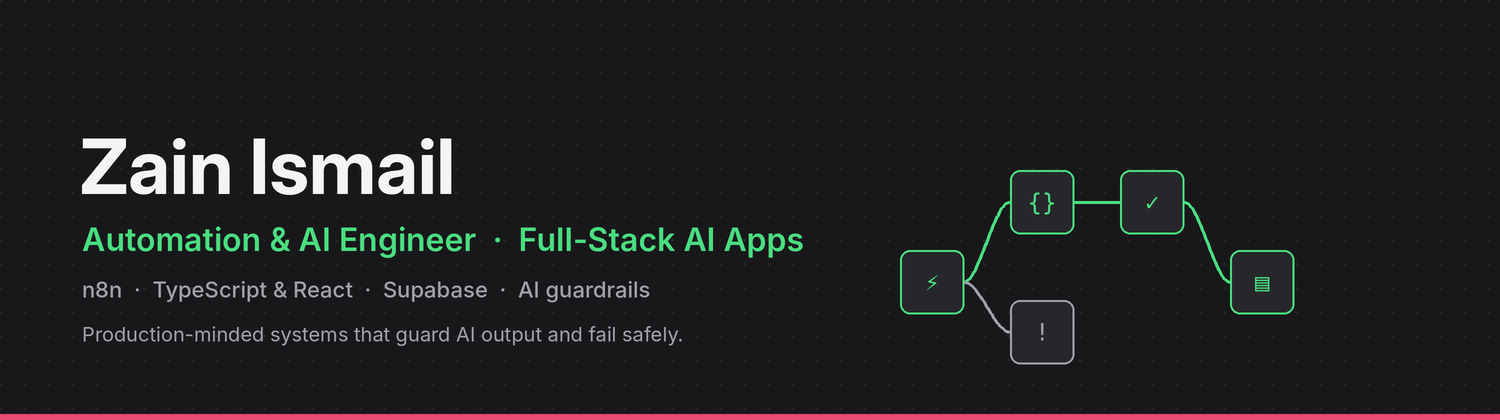
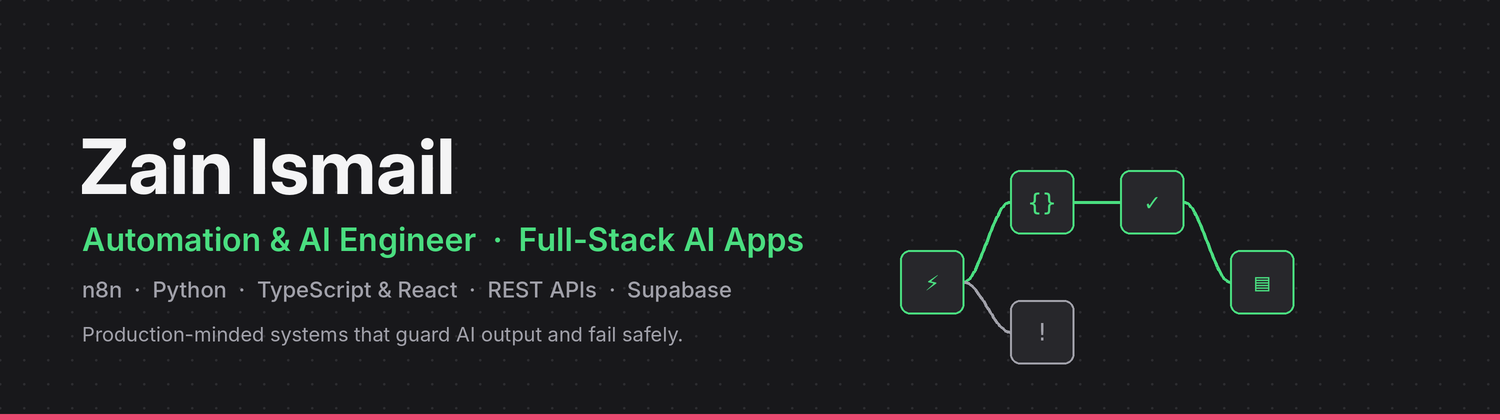
Update location to Bahawalpur; add Python and API skills
Claude-Session: https://claude.ai/code/session_019bePdeGMJb2WFyAZFRj3xd

Changed region(s): [[0.092, 0.65, 0.4907, 0.7119]]

diff --git a/README.md b/README.md
@@ -6,7 +6,7 @@
   <a href="mailto:zm48713@gmail.com"><img src="https://img.shields.io/badge/Email-zm48713%40gmail.com-EA4335?style=flat&logo=gmail&logoColor=white" alt="Email"></a>
   <!-- <a href="https://linkedin.com/in/YOUR-HANDLE"><img src="https://img.shields.io/badge/LinkedIn-Connect-0A66C2?style=flat&logo=linkedin&logoColor=white" alt="LinkedIn"></a> -->
   <img src="https://img.shields.io/badge/Open%20to-roles%20%26%20contracts-4ADE80?style=flat" alt="Open to roles and contracts">
-  <img src="https://img.shields.io/badge/Lahore%2C%20PK-Remote%20friendly-71717A?style=flat" alt="Lahore, Pakistan, remote friendly">
+  <img src="https://img.shields.io/badge/Bahawalpur%2C%20Pakistan-Remote%20friendly-71717A?style=flat" alt="Bahawalpur, Pakistan, remote friendly">
 </p>
 
 ## About me
@@ -78,7 +78,9 @@ Focused, importable workflows that each demonstrate one production pattern, star
 
 **Automation:** &nbsp;
 ![n8n](https://img.shields.io/badge/n8n-EA4B71?style=flat-square&logo=n8n&logoColor=white)
-![Webhooks](https://img.shields.io/badge/Webhooks%20%26%20REST-0EA5E9?style=flat-square&logo=fastapi&logoColor=white)
+![REST API](https://img.shields.io/badge/REST%20API-0EA5E9?style=flat-square&logo=openapiinitiative&logoColor=white)
+![API Integration](https://img.shields.io/badge/API%20Integration-6366F1?style=flat-square&logo=postman&logoColor=white)
+![Webhooks](https://img.shields.io/badge/Webhooks-0F766E?style=flat-square&logo=webauthn&logoColor=white)
 ![Google Sheets](https://img.shields.io/badge/Google%20Sheets-34A853?style=flat-square&logo=googlesheets&logoColor=white)
 
 **Frontend:** &nbsp;
@@ -89,6 +91,7 @@ Focused, importable workflows that each demonstrate one production pattern, star
 ![Tailwind CSS](https://img.shields.io/badge/Tailwind-06B6D4?style=flat-square&logo=tailwindcss&logoColor=white)
 
 **Backend & data:** &nbsp;
+![Python](https://img.shields.io/badge/Python-3776AB?style=flat-square&logo=python&logoColor=white)
 ![Supabase](https://img.shields.io/badge/Supabase-3FCF8E?style=flat-square&logo=supabase&logoColor=white)
 ![PostgreSQL](https://img.shields.io/badge/PostgreSQL-4169E1?style=flat-square&logo=postgresql&logoColor=white)
 ![OpenAI API](https://img.shields.io/badge/OpenAI%20API-412991?style=flat-square&logo=openai&logoColor=white)
